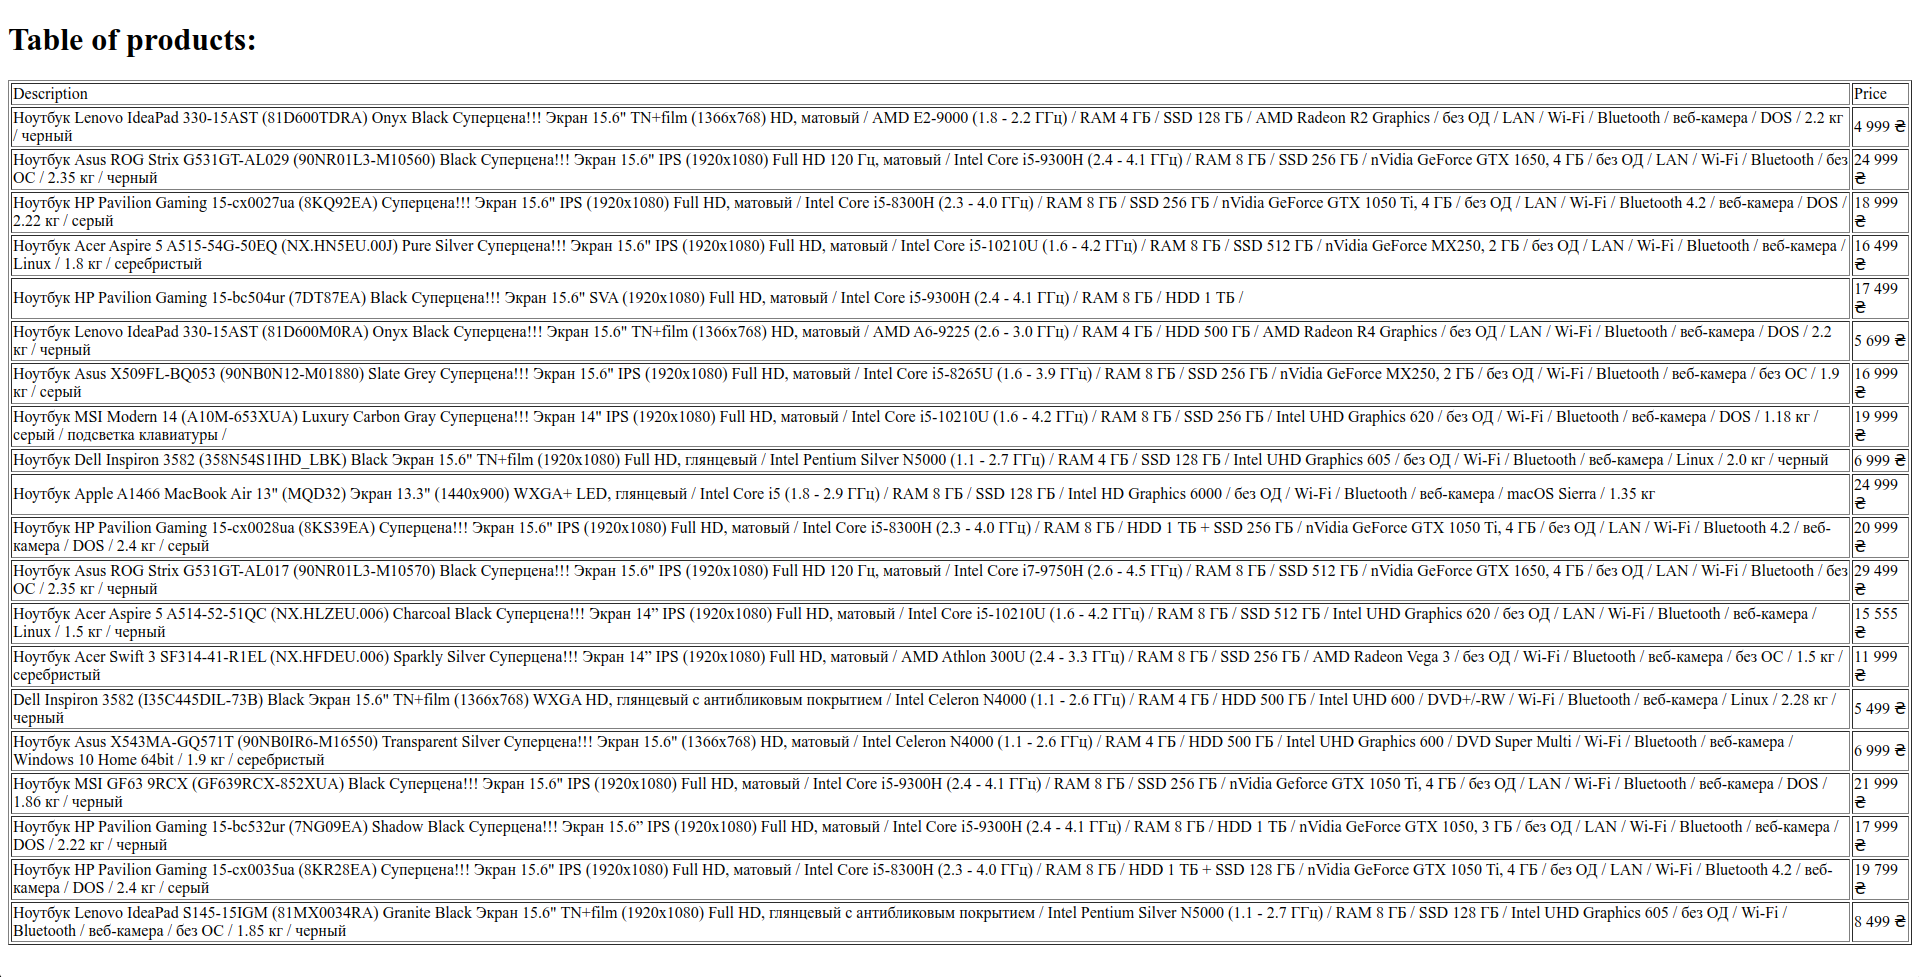
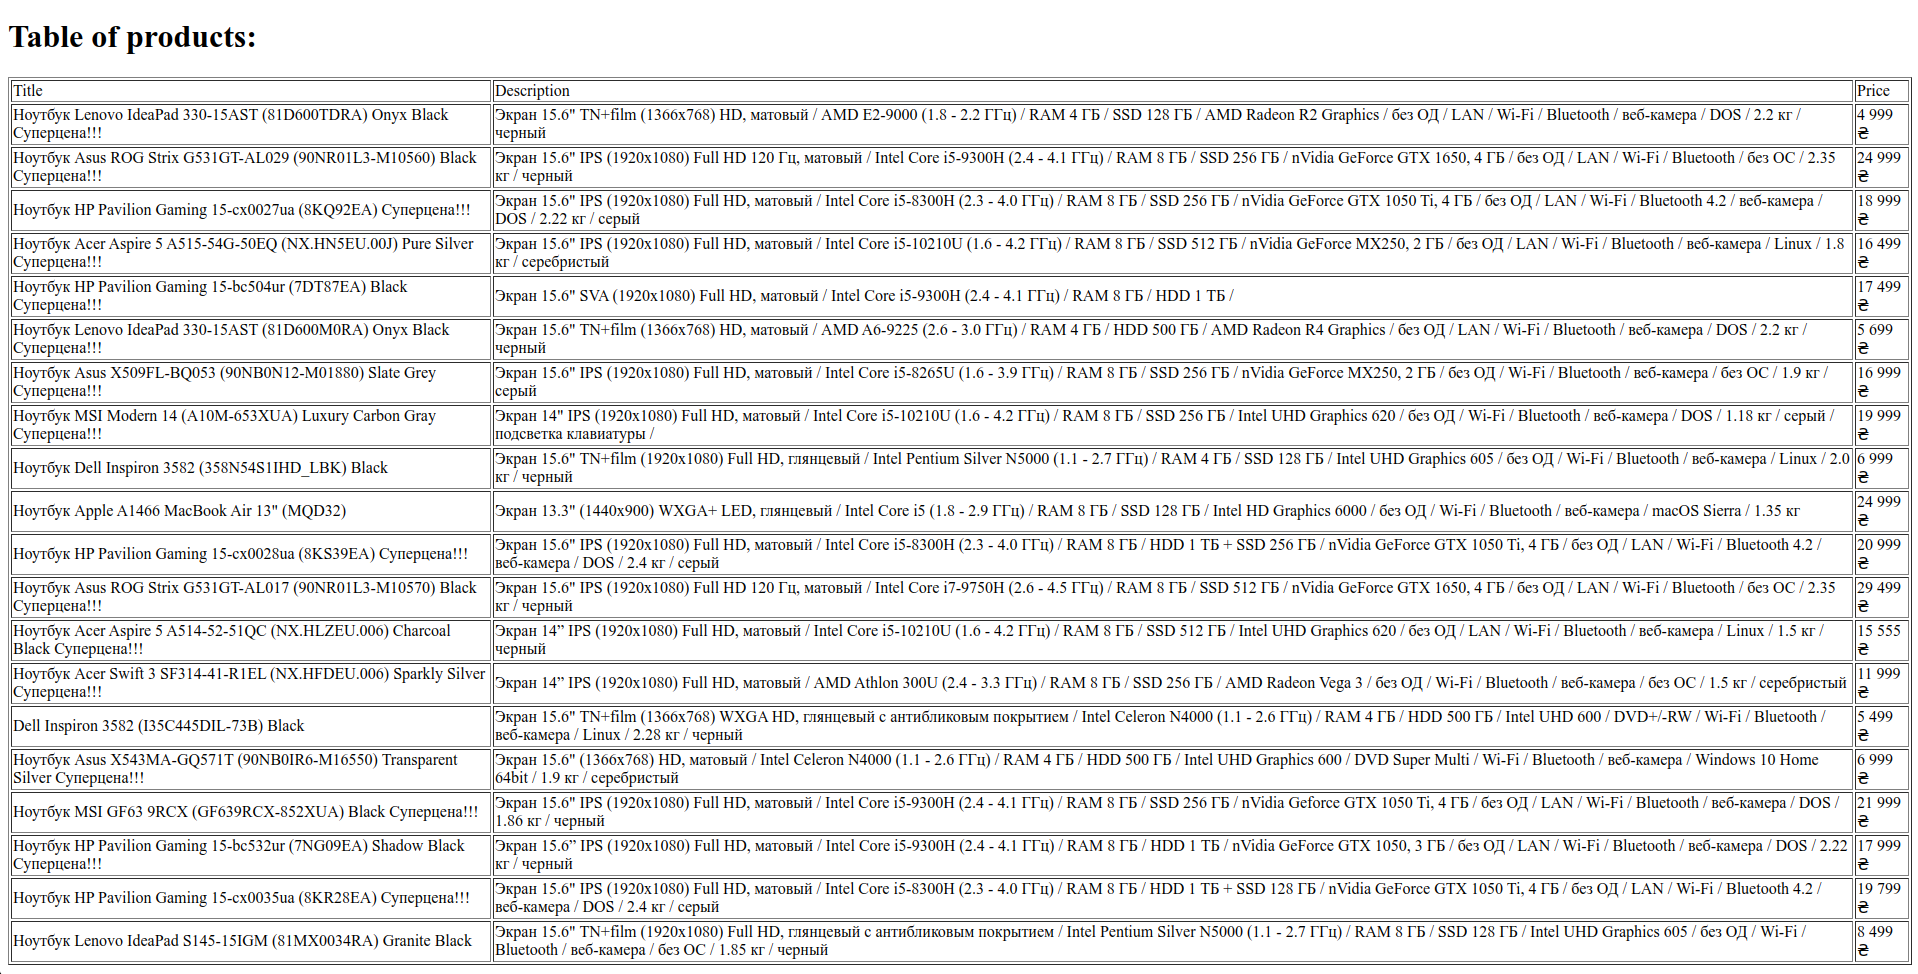
title field for rozetka spider added

diff --git a/src/scrapers/spiders/rozetka.py b/src/scrapers/spiders/rozetka.py
@@ -13,11 +13,8 @@ class RozetkaSpider(scrapy.Spider):
 
         for product in products:
             yield {
-                'description': product.xpath(".//span[contains(@class, 'goods-tile__title')]/text()")[0].get()
-                        + product.xpath(".//p[contains(@class, 'goods-tile__description_type_text')]/text()")[0].get(),
+                'title': product.xpath(".//span[contains(@class, 'goods-tile__title')]/text()")[0].get(),
+                'description': product.xpath(".//p[contains(@class, 'goods-tile__description_type_text')]/text()")[0].get(),
                 'price': product.xpath(".//span[contains(@class, 'goods-tile__price-value')]/text()")[0].get()
-                         + product.xpath(".//span[contains(@class, 'goods-tile__price-currency')]/text()")[0].get(),
-
-                # rozetka.com.ua use lazy loading for images, so srapy can't get href :(
-                'img': product.xpath(".//a[@class='goods-tile__picture']/img[1]/@src").get()
+                         + product.xpath(".//span[contains(@class, 'goods-tile__price-currency')]/text()")[0].get()
             }

diff --git a/src/scrapers/pipelines.py b/src/scrapers/pipelines.py
@@ -28,10 +28,13 @@ class ScrapersPipeline(object):
             self.root.append(page)
         else:
             product = etree.Element("product")
+            title = etree.Element("title")
+            title.text = item["title"]
             desc = etree.Element("description")
             desc.text = item["description"]
             pr = etree.Element("price")
             pr.text = item["price"]
+            product.append(title)
             product.append(desc)
             product.append(pr)
             self.root.append(product)

diff --git a/README.md b/README.md
@@ -14,5 +14,4 @@
 ___
 ![lab](screenshots/Task2.png)
 ___
-*Примітка: rozetka.com.ua використовує lazy-loading для зображень, тому Scrapy не може отримати лінку на зображення :(*
 ![lab](screenshots/Task3.png)
